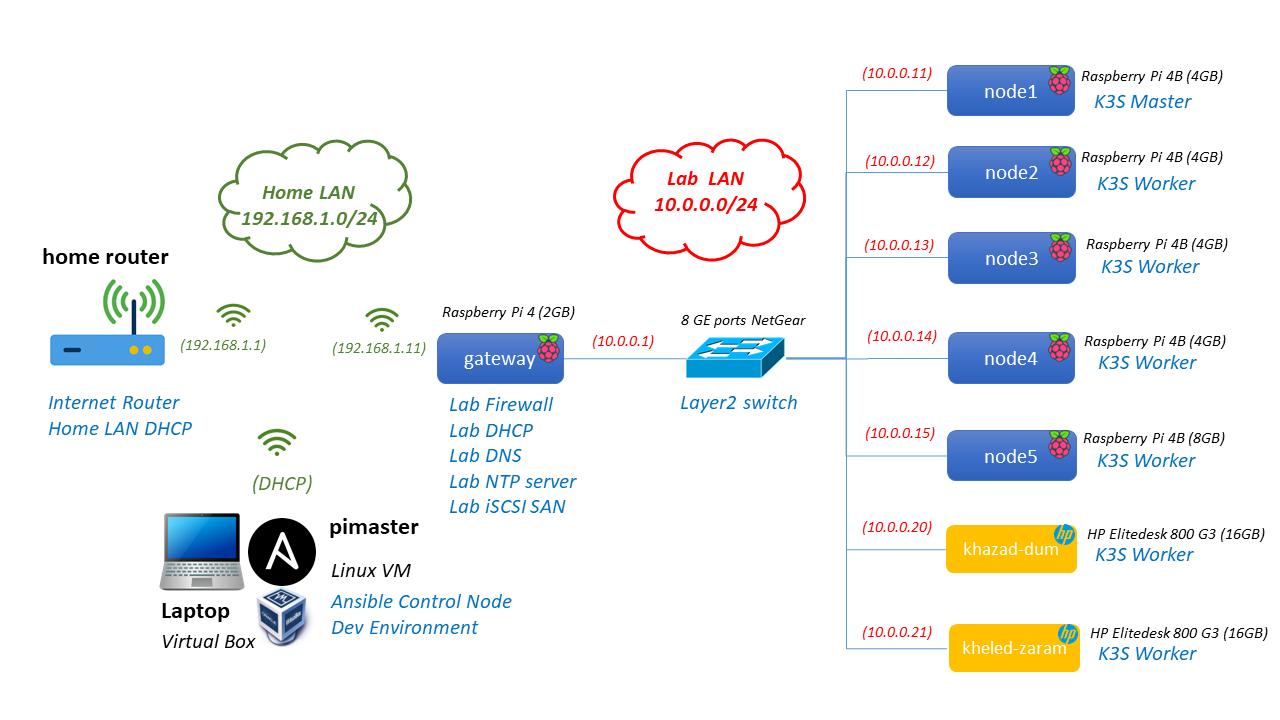
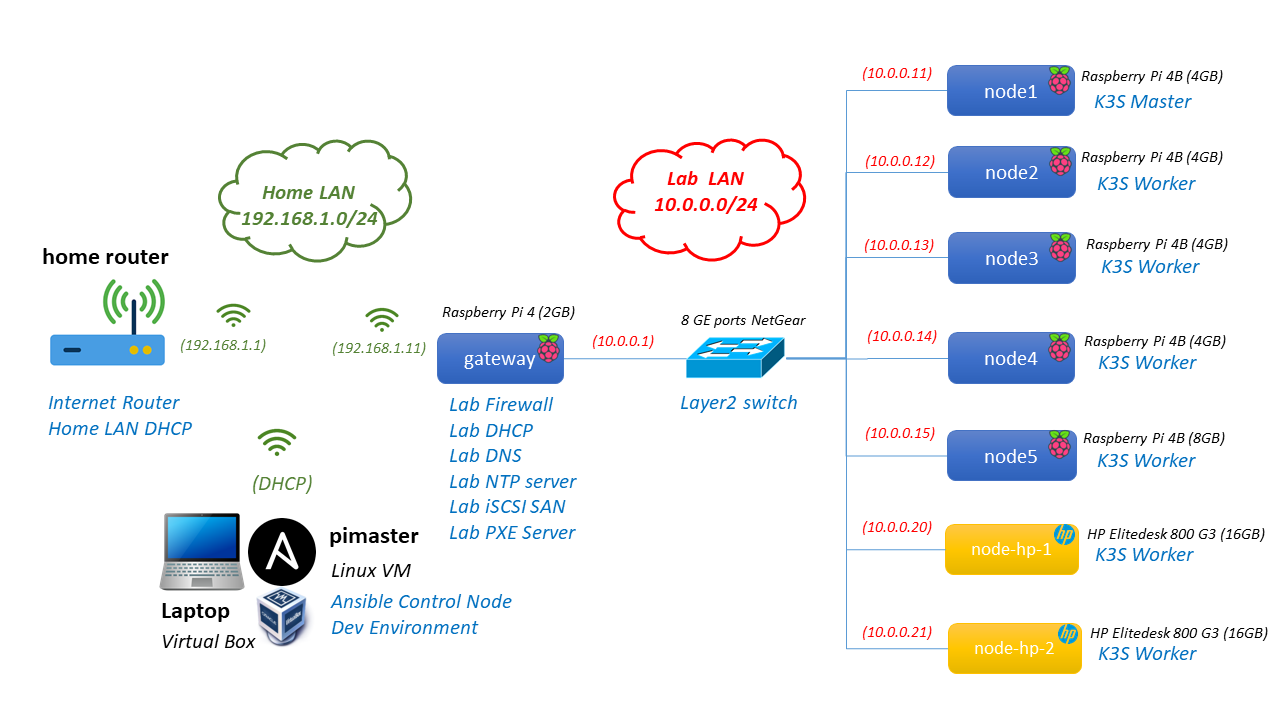
Updating lab architecture doc

Changed region(s): [[0.7188, 0.7028, 0.8438, 0.7944], [0.7188, 0.8556, 0.8438, 0.9472], [0.25, 0.7028, 0.4375, 0.7639]]

diff --git a/docs/_docs/architecture.md b/docs/_docs/architecture.md
@@ -2,7 +2,7 @@
 title: Lab Architecture
 permalink: /docs/architecture/
 description: Homelab architecture of our Pi Kuberentes cluster. Cluster nodes, firewall, and Ansible control node. Networking and cluster storage design.
-last_modified_at: "10-06-2023"
+last_modified_at: "18-06-2023"
 ---
 
 
@@ -11,51 +11,101 @@ The home lab I am building is shown in the following picture
 ![Cluster-lab](/assets/img/RaspberryPiCluster_architecture.png)
 
 
-## Cluster Nodes
-
-For building the K3S cluster, using bare metal servers instead of virtual machines, low cost servers are being used:
-- ARM-based SBC (Single Board Computer): 
-  - [Raspberry Pi 4B](https://www.raspberrypi.com/products/raspberry-pi-4-model-b/)
-    CPU: ARM Cortex-A72. Quadcore 1.5GHz
-    RAM: 2GB/4GB/8GB
-- x86-based old refurbished mini PC
-  - [HP Elitedesk 800 G3 Desktop mini PC](https://support.hp.com/us-en/product/hp-elitedesk-800-65w-g3-desktop-mini-pc/15497277/manuals)
-    CPU: Intel i5 6500T. Quadcore 2.5 GHz
-    RAM: 16 GB
-
-{{site.data.alerts.note}}
-
-This project initilly was built using only Raspberry PI nodes, but due to Raspberry shortage during last 2 years which makes impossible to buy them at reasonable prices, I decided to look for alternatives to be able to scale up my cluster.
-
-Old x86 refurbished mini PCs, with Intel i5 processors was the answer. These mini PCs provide similar performance to RaspberryPi's ARM Cortex-A72, but its memory can be expanded up to 32GB of RAM (Raspberry PI higher model only supports 8GB RAM). As a drawback power consumption of those mini PCs are higher that Raspberry PIs.
-
-The overall price of a mini PC, intel i5 + 8 GB RAM + 256 GB SSD disk + power supply, ([aprox 130 €](https://www.amazon.es/HP-EliteDesk-800-G3-reacondicionado/dp/B09TL2N2M8/)) is cheaper than the overal cost of building a cluster node using a Rasbperry PI: cost of Raspberry PI 8GB (100€) + Power Adapter (aprox 10 €) + SSD Disk ([aprox 20 €](https://www.amazon.es/Kingston-SSD-A400-Disco-s%C3%B3lido/dp/B01N5IB20Q)) + USB3.0 to SATA converter ([aprox 20€](https://www.amazon.es/Startech-USB3S2SAT3CB-Adaptador-3-0-2-5-negro/dp/B00HJZJI84))
-
-{{site.data.alerts.end}}
- 
-
-### K3S Nodes
-
-A K3S cluster composed of:
+A K3S cluster is composed of the following **cluster nodes**:
 - One master node (`node1`), running on Raspberry Pi 4B (4GB)
 - Six worker nodes:
   - `node2`, `node3` , `node4` running on Raspberry Pi 4B (4GB)
   - `node5` running on Raspberry Pi 4B (8GB)
   - `node-hp-1` and `node-hp-2` running on HP Elitedesk 800 G3 (16GB)
  
-### Firewall
 
-A Raspberry PI 4B-2GB, `gateway`, is used as Router/Firewall to isolate lab network from my home network. It also provides networking services to my lab network: Internet Access, DNS, NTP and DHCP services.
+A **LAN switch** (8 Gigabit ports) is used to provide L2 connectivity to the cluster nodes. L3 connectivity and internet access is provided by a router/firewall (`gateway`) running on Raspberry Pi 4B (2GB). 
 
-### Control Node
+`gateway`, **cluster firewall/router**, is connected to LAN Switch using its Gigabit Ethernet port. It is also connected to my home network using its WIFI interface, so it can route and filter traffic comming in/out the cluster. With this architecture my lab network can be isolated from my home network.
 
-As Ansible control node, `pimaster`, a VM running on my laptop will be used. Its required SSH connectivity to cluster nodes will be routed through the cluster firewall, `gateway`.
+`gateway` also provides networking services to my lab network:
+ - Internet Access
+ - DNS
+ - NTP
+ - DHCP
 
-## Networking
+For automating the OS installation of x86 nodes, a **PXE server** will be deployed in `gateway` node.
 
-A 8 GE ports LAN switch, NetGear GS108-300PES, supporting VLAN configuration and remote management, is used to provide connectivity to all nodes (Raspberry Pis and x86 mini PCs). All nodes are connected to the switch with Cat6 eth cables using their Gigabit Ethernet port.
+**Ansible control node**, `pimaster` is deployed in a Linux VM or Linux Laptop, so from this node the whole cluster configuration can be managed. `pimaster` is connected to my home network (ip in  192.168.1.0/24 network). In `pimaster`, a IP route to 10.0.0.0/24 network through `gateway` (192.168.1.11) need to be configured, so it can have connectivity to cluster nodes.
 
-`gateway`, cluster firewall/router, is also connected to my home network using its WIFI interface in order to route and filter traffic comming in/out the cluster.
+
+## Hardware
+
+### Nodes
+
+For building the cluster, using bare metal servers instead of virtual machines, low cost servers are used:
+
+#### ARM-based SBC (Single Board Computer)
+
+- [Raspberry Pi 4B](https://www.raspberrypi.com/products/raspberry-pi-4-model-b/)
+
+  - CPU: Broadcom BCM2711, Quad core Cortex-A72 (ARM v8). 4 cores/4 threads at 1.5GHz
+  - RAM: 2GB/4GB/8GB
+  - Disk: SDCard or USB disk (Flash Disk or SSD disk through USB to SATA adapter)
+
+
+  ![raspberry-pi-4b](/assets/img/raspberrypi4b.png)
+
+  I have used the following hardware components to assemble Raspberry PI components of the cluster.
+
+  - [4 x Raspberry Pi 4 - Model B (4 GB)](https://www.tiendatec.es/raspberry-pi/gama-raspberry-pi/1100-raspberry-pi-4-modelo-b-4gb-765756931182.html) and [1 x Raspberry Pi 4 - Model B (8 GB)](https://www.tiendatec.es/raspberry-pi/gama-raspberry-pi/1231-raspberry-pi-4-modelo-b-8gb-765756931199.html) as ARM-based cluster nodes (1 master node and 5 worker nodes).
+  - [1 x Raspberry Pi 4 - Model B (2 GB)](https://www.tiendatec.es/raspberry-pi/gama-raspberry-pi/1099-raspberry-pi-4-modelo-b-2gb-765756931175.html) as router/firewall for the lab environment connected via wifi to my home network and securing the access to my lab network.
+  - [4 x SanDisk Ultra 32 GB microSDHC Memory Cards](https://www.amazon.es/SanDisk-SDSQUA4-064G-GN6MA-microSDXC-Adaptador-Rendimiento-dp-B08GY9NYRM/dp/B08GY9NYRM) (Class 10) for installing Raspberry Pi OS for enabling booting from USB (update Raspberry PI firmware and modify USB partition)
+  - [4 x Samsung USB 3.1 32 GB Fit Plus Flash Disk](https://www.amazon.es/Samsung-FIT-Plus-Memoria-MUF-32AB/dp/B07HPWKS3C) 
+  - [1 x Kingston A400 SSD Disk 480GB](https://www.amazon.es/Kingston-SSD-A400-Disco-s%C3%B3lido/dp/B01N0TQPQB)
+  - [4 x Kingston A400 SSD Disk 240GB](https://www.amazon.es/Kingston-SSD-A400-Disco-s%C3%B3lido/dp/B01N5IB20Q)
+  - [5 x Startech USB 3.0 to SATA III Adapter](https://www.amazon.es/Startech-USB3S2SAT3CB-Adaptador-3-0-2-5-negro/dp/B00HJZJI84) for connecting SSD disk to USB 3.0 ports.
+  - [1 x GeeekPi Pi Rack Case](https://www.amazon.es/GeeekPi-Raspberry-Ventilador-refrigeraci%C3%B3n-disipador/dp/B07Z4GRQGH/ref=sr_1_11). It comes with a stack for 4 x Raspberry Pi’s, plus heatsinks and fans)
+  - [1 x SSD Rack Case](https://www.aliexpress.com/i/33008511822.html)
+  - [1 x ANIDEES AI CHARGER 6+](https://www.tiendatec.es/raspberry-pi/raspberry-pi-alimentacion/796-anidees-ai-charger-6-cargador-usb-6-puertos-5v-60w-12a-raspberry-pi-4712909320214.html). 6 port USB power supply (60 W and max 12 A)
+  - [1 x ANKER USB Charging Hub](https://www.amazon.es/Anker-Cargador-USB-6-Puertos/dp/B00PTLSH9G/). 6 port USB power supply (60 w and max 12 A)
+  - [6 x USB-C charging cable with ON/OFF switch](https://www.aliexpress.com/item/33049198504.html).
+
+
+#### x86-based old refurbished mini PC
+
+- [HP Elitedesk 800 G3 Desktop mini PC](https://support.hp.com/us-en/product/hp-elitedesk-800-65w-g3-desktop-mini-pc/15497277/manuals)
+  - CPU: Intel i5 6500T. 4 cores(4 threads) at 2.5 GHz
+  - RAM: 16 GB
+  - Disk: Integrated SSD disk (SATA or NVMe)
+
+  ![hp-elitedesk-800](/assets/img/hpelitedesk800g3mini.png)
+
+  I have used the following hardware components
+
+    - [2 x HP EliteDesk 800 G3 i5 6500T 2,5 GHz, 8 GB de RAM, SSD de 256 GB](https://www.amazon.es/HP-EliteDesk-800-G3-reacondicionado/dp/B09TL2N2M8) as x86 cluster nodes.
+      One of the nodes `node-hp-2` has a SSD M.2 NVMe 256 GB. The other, `node-hp-1` has a SATA SSD Kingston 240 GB
+    - [2 x Crucial RAM 8GB DDR4 2400MHz CL17 Memoria](https://www.amazon.es/dp/B01BIWKP58) as RAM expansion for mini PCs. Total memmory 16 GB 
+
+{{site.data.alerts.note}}
+
+Initially the intent of this project was to build a kuberentes cluster using only Raspberry PI nodes. Due to Raspberry shortage during last 2 years, which makes impossible to buy them at reasonable prices, I have decided to look for alternatives to be able to scale up my cluster.
+
+Old x86 refurbished mini PCs, with Intel i5 processors has been the solution. These mini PCs provide similar performance to RaspberryPi's Quadcore ARM Cortex-A72, but its memory can be expanded up to 32GB of RAM (Raspberry PI higher model only supports 8GB RAM). As a drawback power consumption of those mini PCs are higher that Raspberry PIs.
+
+The overall price of a mini PC, intel i5 + 8 GB RAM + 256 GB SSD disk + power supply, ([aprox 130 €](https://www.amazon.es/HP-EliteDesk-800-G3-reacondicionado/dp/B09TL2N2M8/)) is cheaper than the overal cost of building a cluster node using a Rasbperry PI: cost of Raspberry PI 8GB (100€) + Power Adapter (aprox 10 €) + SSD Disk ([aprox 20 €](https://www.amazon.es/Kingston-SSD-A400-Disco-s%C3%B3lido/dp/B01N5IB20Q)) + USB3.0 to SATA converter ([aprox 20€](https://www.amazon.es/Startech-USB3S2SAT3CB-Adaptador-3-0-2-5-negro/dp/B00HJZJI84))
+
+{{site.data.alerts.end}}
+
+
+### Networking
+
+A 8 GE ports LAN switch, [NetGear GS108S](https://www.netgear.com/business/wired/switches/plus/gs108e/), supporting VLAN configuration and remote management, is used to provide connectivity to all cluster nodes (Raspberry Pis and x86 mini PCs). 
+
+All nodes are connected to the switch with Cat6 eth cables, using their Gigabit Ethernet port.
+
+![netgear-gs108s](/assets/img/netgear-gs108e.jpg)
+
+
+For networking, I have used the following hardware components:
+
+- [1 x Negear GS108-300PES](https://www.amazon.es/Netgear-GS108E-300PES-conmutador-gestionable-met%C3%A1lica/dp/B00MYYTP3S). 8 ports GE ethernet manageable switch (QoS and VLAN support)
+- [8 x Ethernet Cable](https://www.aliexpress.com/item/32821735352.html). Flat Cat 6,  15 cm length
 
 ## Raspberry PI Storage
 
@@ -93,4 +143,131 @@ As storage device, a SSD disk was attached to `gateway` node. This SSD disk was 
 This alternative setup is worth it from educational point of view, to test the different storage options for RaspberryPI and to learn about iSCSI configuration and deployment on bare-metal environments. As well it can be used as a cheaper solution for deploying centralized storage solution.
 
 See [SAN configuration document](/docs/san/) further details about the configuration of SAN using a Raspeberry PIs, `gateway`, as iSCSI Target exposing LUNs to cluster nodes.
+
+
+### Raspberry PI Storage benchmarking
+
+Different Raspberry PI storage configurations have been tested:
+
+1. Internal SDCard: [SanDisk Ultra 32 GB microSDHC Memory Cards](https://www.amazon.es/SanDisk-SDSQUA4-064G-GN6MA-microSDXC-Adaptador-Rendimiento-dp-B08GY9NYRM/dp/B08GY9NYRM) (Class 10)
+
+2. Flash Disk USB 3.0: [Samsung USB 3.1 32 GB Fit Plus Flash Disk](https://www.amazon.es/Samsung-FIT-Plus-Memoria-MUF-32AB/dp/B07HPWKS3C)
+
+3. SSD Disk [Kingston A400 480GB](https://www.amazon.es/Kingston-SSD-A400-Disco-s%C3%B3lido/dp/B01N0TQPQB) + USB3 to SATA Adapter [Startech USB 3.0 to SATA III](https://www.amazon.es/Startech-USB3S2SAT3CB-Adaptador-3-0-2-5-negro/dp/B00HJZJI84)
+
+4. iSCSI Volumes. Using another Raspberry PI as storage server, configured as iSCSI Target, using a SSD disk attached.
+
+#### Testing procedure
+
+Sequential and random I/O tests have been executed with the different storage configurations. 
+
+For the testing a tweaked version of the script provided by James A. Chambers (https://jamesachambers.com/) has been used
+
+Tests execution has been automated with Ansible. See `pi-storage-benchmark` [repository](https://github.com/ricsanfre/pi-storage-benchmark) for the details of the testing procedure and the results.
+
+##### Sequential I/O performance
+
+Test sequential I/O with `dd` and `hdparam` tools. `hdparm` can be installed through `sudo apt install -y hdparm`
+
+
+- Read speed (Use `hdparm` command)
+    
+  ```shell
+  sudo hdparm -t /dev/sda1
+    
+  Timing buffered disk reads:  72 MB in  3.05 seconds =  23.59 MB/sec
+
+  sudo hdparm -T /dev/sda1
+  Timing cached reads:   464 MB in  2.01 seconds = 231.31 MB/sec
+  ```
+
+  It can be combined in just one command:
+
+  ```shell
+  sudo hdparm -tT --direct /dev/sda1
+
+  Timing O_DIRECT cached reads:   724 MB in  2.00 seconds = 361.84 MB/sec
+  Timing O_DIRECT disk reads: 406 MB in  3.01 seconds = 134.99 MB/sec
+  ```
+
+- Write Speed (use `dd` command)
+
+  ```shell
+  sudo dd if=/dev/zero of=test bs=4k count=80k conv=fsync
+
+  81920+0 records in
+  81920+0 records out
+  335544320 bytes (336 MB, 320 MiB) copied, 1,86384 s, 180 MB/s
+  ```
+
+##### Random I/O Performance
+
+Tools used `fio` and `iozone`.
+
+- Install required packages with:
+
+  ```shell
+  sudo apt install iozone3 fio
+  ```
+
+- Check random I/O with `fio`
+
+  Random Write
+
+  ```shell
+  sudo fio --minimal --randrepeat=1 --ioengine=libaio --direct=1 --gtod_reduce=1 --name=test --filename=test --bs=4k --iodepth=64 --size=80M --readwrite=randwrite
+   ```
+
+  Random Read
+
+  ```shell
+  sudo fio --minimal --randrepeat=1 --ioengine=libaio --direct=1 --gtod_reduce=1 --name=test --filename=test --bs=4k --iodepth=64 --size=80M --readwrite=randread
+   ```
+
+- Check random I/O with `iozone`
+
+  ```shell
+  sudo iozone -a -e -I -i 0 -i 1 -i 2 -s 80M -r 4k
+  ```
+
+#### Performance Results
+
+Average-metrics obtained during the tests removing the worst and the best result can be found in the next table and the following graphs:
+
+<div class="table-responsive">
+|           | Disk Read (MB/s) | Cache Disk Read (MB/s) | Disk Write (MB/s) | 4K Random Read (IOPS) | 4K Random Read (KB/s) | 4K Random Write (IOPS) | 4K Random Write (KB/s) | 4k read (KB/s) | 4k write (KB/s) | 4k random read (KB/s) | 4k random write (KB/s) | Global Score   |
+| --------- | ---------------- | ---------------------- | ----------------- | --------------------- | --------------------- | ---------------------- | ---------------------- | -------------- | --------------- | --------------------- | ---------------------- | ------- |
+| SDCard    | 41.89            | 39.02                  | 19.23             | 2767.33               | 11071.00              | 974.33                 | 3899.33                | 8846.33        | 2230.33         | 7368.67               | 3442.33                | 1169.67 |
+| FlashDisk | 55.39            | 50.51                  | 21.30             | 3168.40               | 12675.00              | 2700.20                | 10802.40               | 14842.20       | 11561.80        | 11429.60              | 10780.60               | 2413.60 |
+| SSD       | 335.10           | 304.67                 | 125.67            | 22025.67              | 88103.33              | 18731.33               | 74927.00               | 31834.33       | 26213.33        | 17064.33              | 29884.00               | 8295.67 |
+| iSCSI     | 70.99            | 71.46                  | 54.07             | 5104.00               | 20417.00              | 5349.67                | 21400.00               | 7954.33        | 7421.33         | 6177.00               | 7788.33                | 2473.00 |
+{: .table .table-white .table-borderer .border-dark }
+</div>
+
+- Sequential I/O
+
+  ![sequential_i_o](/assets/img/benchmarking_sequential_i_o.png)
+
+
+- Random I/O (FIO)
+
+  ![random_i_o](/assets/img/benchmarking_random_i_o.png)
+
+- Random I/O (IOZONE)
+
+  ![random_i_o_iozone](/assets/img/benchmarking_random_i_o_iozone.png)
+
+
+- Global Score
+
+  ![global_score](/assets/img/benchmarking_score.png)
+
+Conclusions:
+
+1. Clearly `SSD` with USB3.0 to SATA adapter beats the rest in all performance tests.
+2. `SDCard` obtains worst metrics than `FlashDisk` and `iSCSI`
+3. `FlashDisk` and `iSCSI` get similar performance metrics
+
+The performace obtained using local attached USB3.0 Flash Disk is quite similar to the one obtained using iSCSI with RaspberryPI+SSD Disk as central storage.
+
 